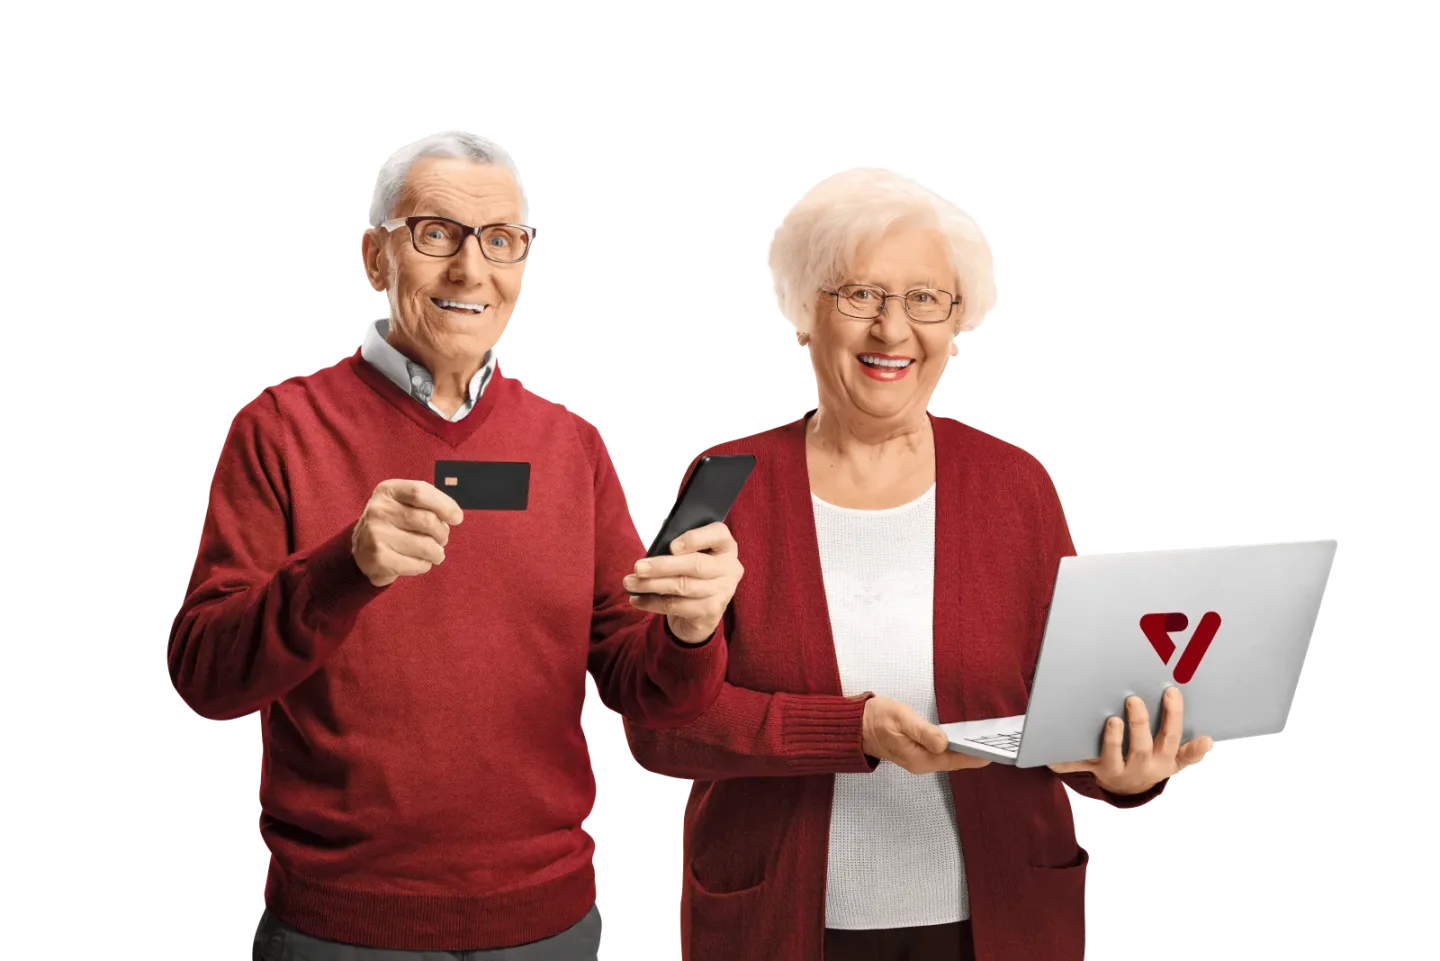
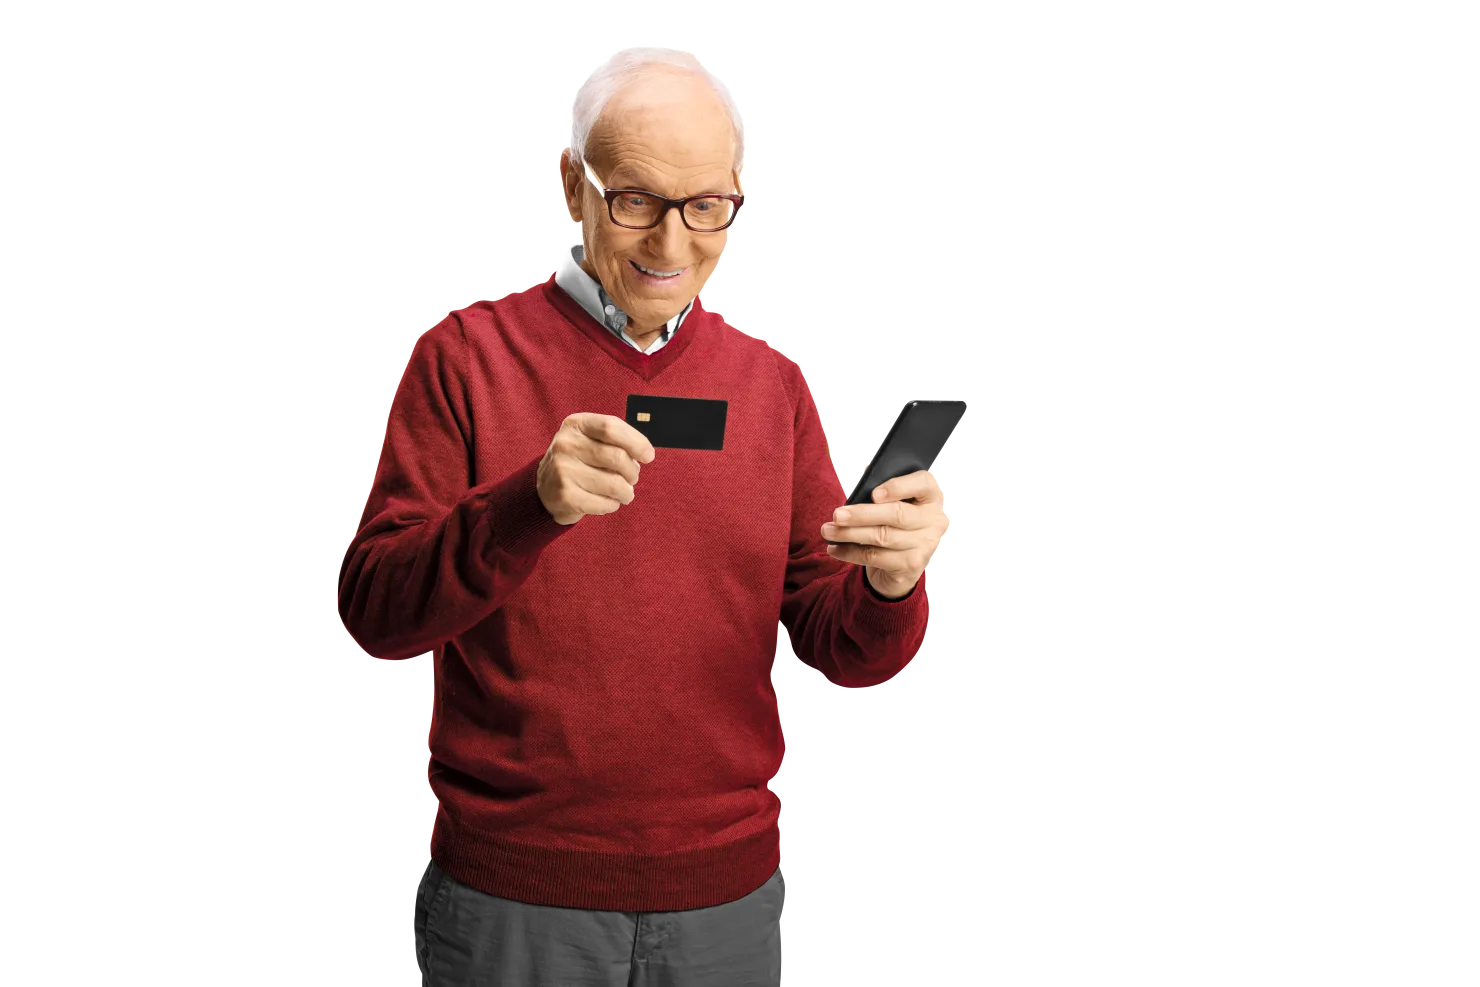
fix(klantservice): juiste betaalfoto en ankers die onder de header landen
- man-betaling.webp is nu de echte cutout (oudere man met kaart en gsm)
  i.p.v. de tijdelijke stand-in.
- scroll-margin-top op de sectie-ankers, zodat #betalingen, #storing,
  #verlengen enz. niet meer onder de vaste header verdwijnen.

diff --git a/src/styles/klantservice-fixes.css b/src/styles/klantservice-fixes.css
@@ -21,6 +21,12 @@
       storingskaarten gebruiken genummerde stappen; zonder deze regel valt de
       nummering weg en blijft er een lege inspringing over. Het design rekent
       op de standaard decimale opsomming.
+
+   4. Anker-sprongen (#betalingen, #storing, #verlengen, …) landen anders onder
+      de vaste header, waardoor de sectiekop verdwijnt en het lijkt alsof de
+      knop niet werkt. `scroll-margin-top` houdt ruimte vrij voor de header;
+      zowel de native hash-sprong als het `scrollIntoView` in ScrollToTop
+      respecteren deze marge.
    ============================================================ */
 
 .ks-page .navpill .nav-logo img {
@@ -30,6 +36,10 @@
 
 .ks-page .fx ol {
   list-style: decimal;
+}
+
+.ks-page section[id] {
+  scroll-margin-top: 104px;
 }
 
 @media (max-width: 660px) {
